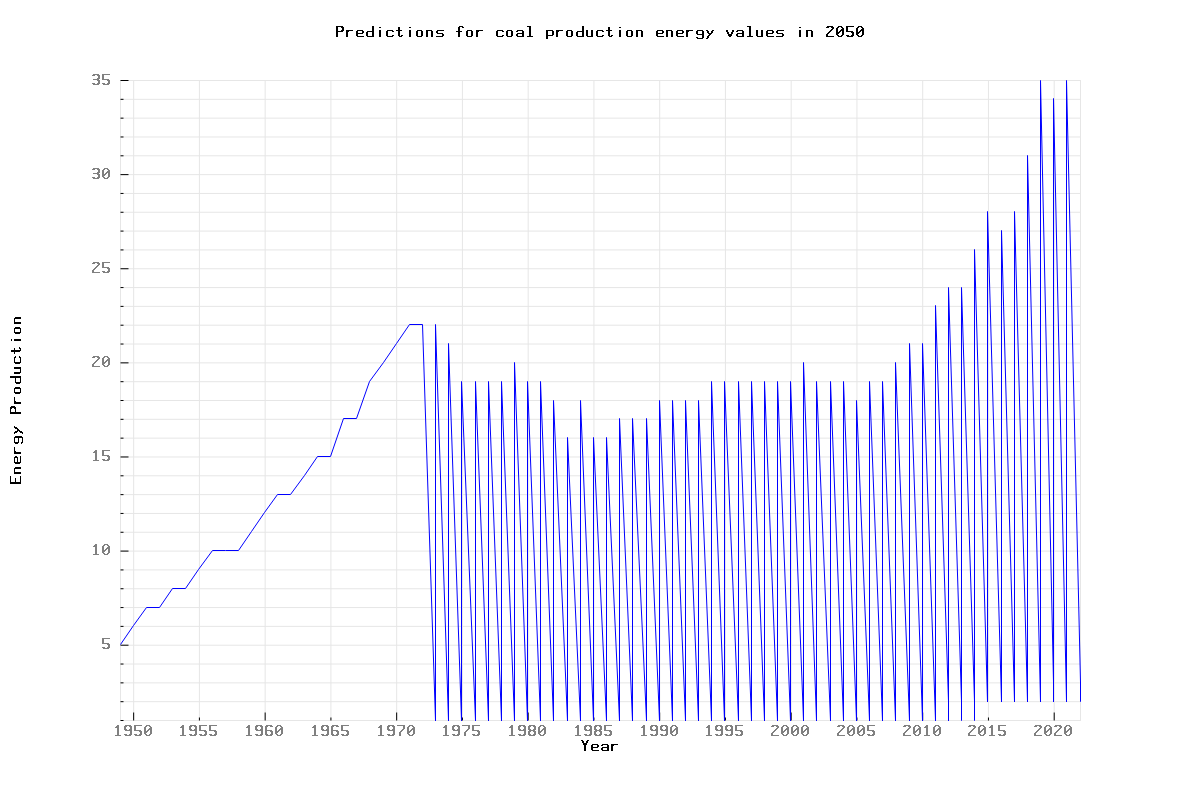
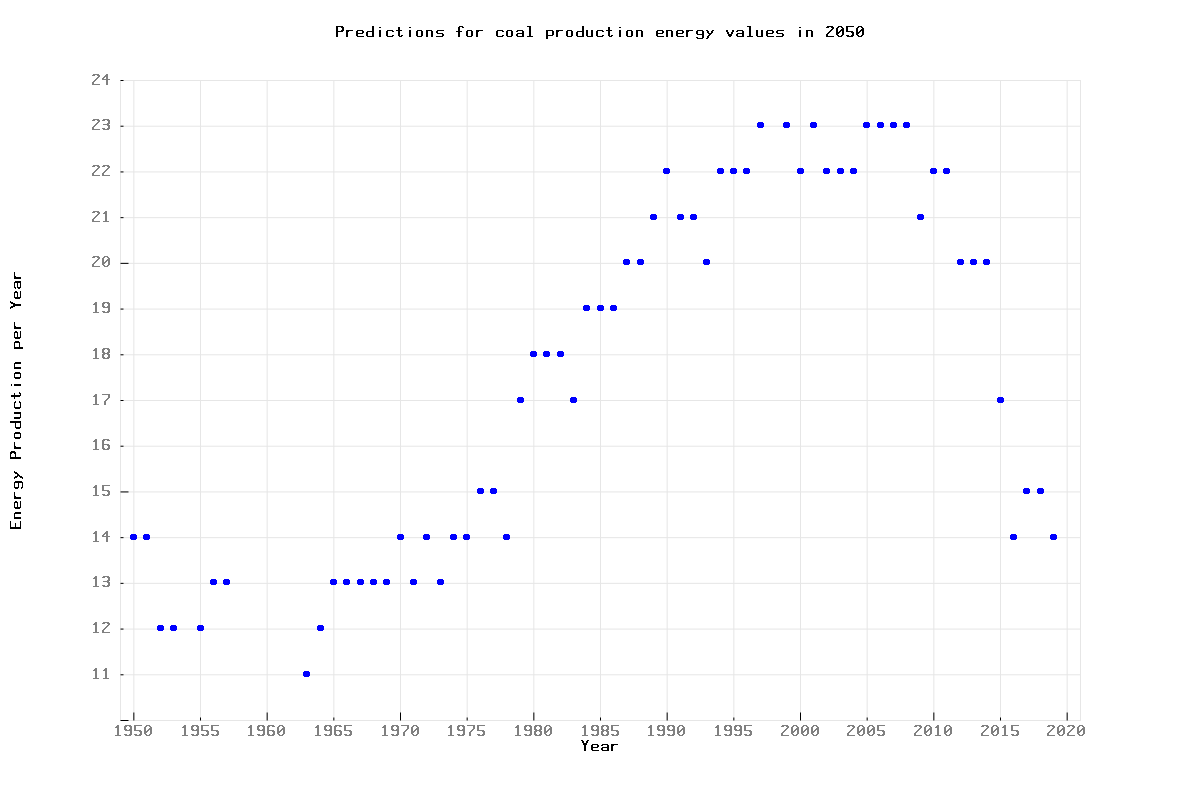
Updated display function and data collection from csv file

diff --git a/main.cpp b/main.cpp
@@ -50,30 +50,31 @@ int main(int argc, char* argv[]){
         getline(inFS, line);
         
         EnergySource e(year, eValue, column);
-        
-        if(column == 1){
-            coal.add(e);
-        } else if (column == 2){
-            naturalGasDry.add(e);
-        } else if (column == 3){
-            crudeOil.add(e);
-        } else if (column == 4){
-            naturalGasPlant.add(e);
-        } else if (column == 5){
-            fossilFuels.add(e);
-        } else if (column == 6){
-            nuclearElectric.add(e);
-        } else if (column == 7){
-            hydroElectric.add(e);
-        } else if (column == 8){
-            geothermal.add(e);
-        } else if (column == 9){
-            solar.add(e);
-        } else if (column == 10){
-            wind.add(e);
-        } else if (column == 11){
-            biomass.add(e);
-        } 
+        if (year % 100 == 13) {
+            if(column == 1){
+                coal.add(e);
+            } else if (column == 2){
+                naturalGasDry.add(e);
+            } else if (column == 3){
+                crudeOil.add(e);
+            } else if (column == 4){
+                naturalGasPlant.add(e);
+            } else if (column == 5){
+                fossilFuels.add(e);
+            } else if (column == 6){
+                nuclearElectric.add(e);
+            } else if (column == 7){
+                hydroElectric.add(e);
+            } else if (column == 8){
+                geothermal.add(e);
+            } else if (column == 9){
+                solar.add(e);
+            } else if (column == 10){
+                wind.add(e);
+            } else if (column == 11){
+                biomass.add(e);
+            } 
+        }
 
     }
 
@@ -100,14 +101,16 @@ void display(vector<double> &years, vector<double> &energyProduction, string png
     series->xs = &years;
     series->ys = &energyProduction;
     series->color = CreateRGBColor(0,0,1);
-    series->linearInterpolation = true;
+    series->linearInterpolation = false;
+    series->pointType = toVector(L"dots");
+
 
     ScatterPlotSettings *settings = GetDefaultScatterPlotSettings();
     settings->title = toVector(wplotTitle.c_str());
     settings->width = 1200;
     settings->height = 800;
     settings->xLabel = toVector(L"Year");
-    settings->yLabel = toVector(L"Energy Production");
+    settings->yLabel = toVector(L"Energy Production per Year");
     settings->scatterPlotSeries->push_back(series);
 
     success = DrawScatterPlotFromSettings(imageRef, settings, errorMessage);
